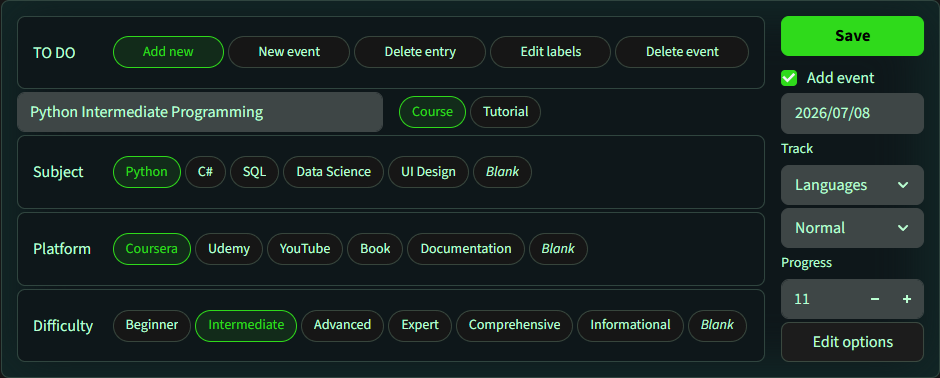
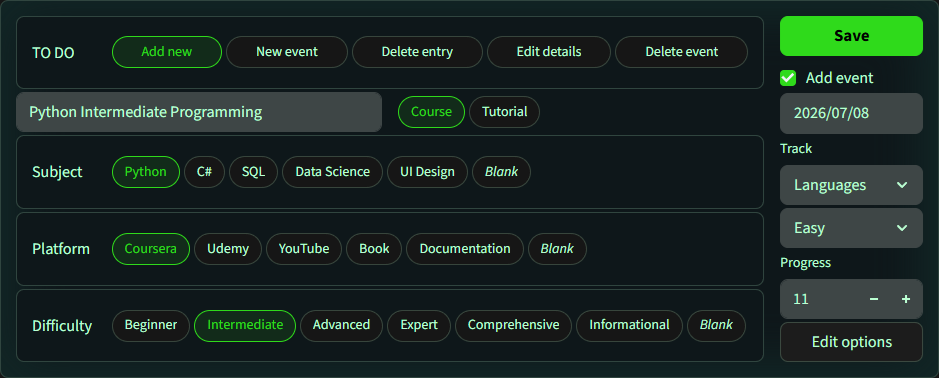
readme update

diff --git a/README.md b/README.md
@@ -219,10 +219,10 @@ Through this feature new objects or events can be added, or old ones edited.
 
 #### Modes (top field): 
 
-- **Add new:** enter a new name to add a completely new object/subject to the database. You can simultaneously add an to that object
+- **Add new:** enter a new name to add a completely new object/subject to the database. You can simultaneously add an event to that object
 - **New event:** select an existing object in the name field to which a new event is attached
 - **Delete entry:** select an object to remove
-- **Edit labels:** by this, other labels can be set on an object. Object type and events cannot be edited, remove and add them again instead.
+- **Edit detail:** edit object name or labels. Object type and events cannot be changed, delete and add again instead.
 - **Delete event:** select an event in the date field with a date-time ID to remove
 
 #### Object details